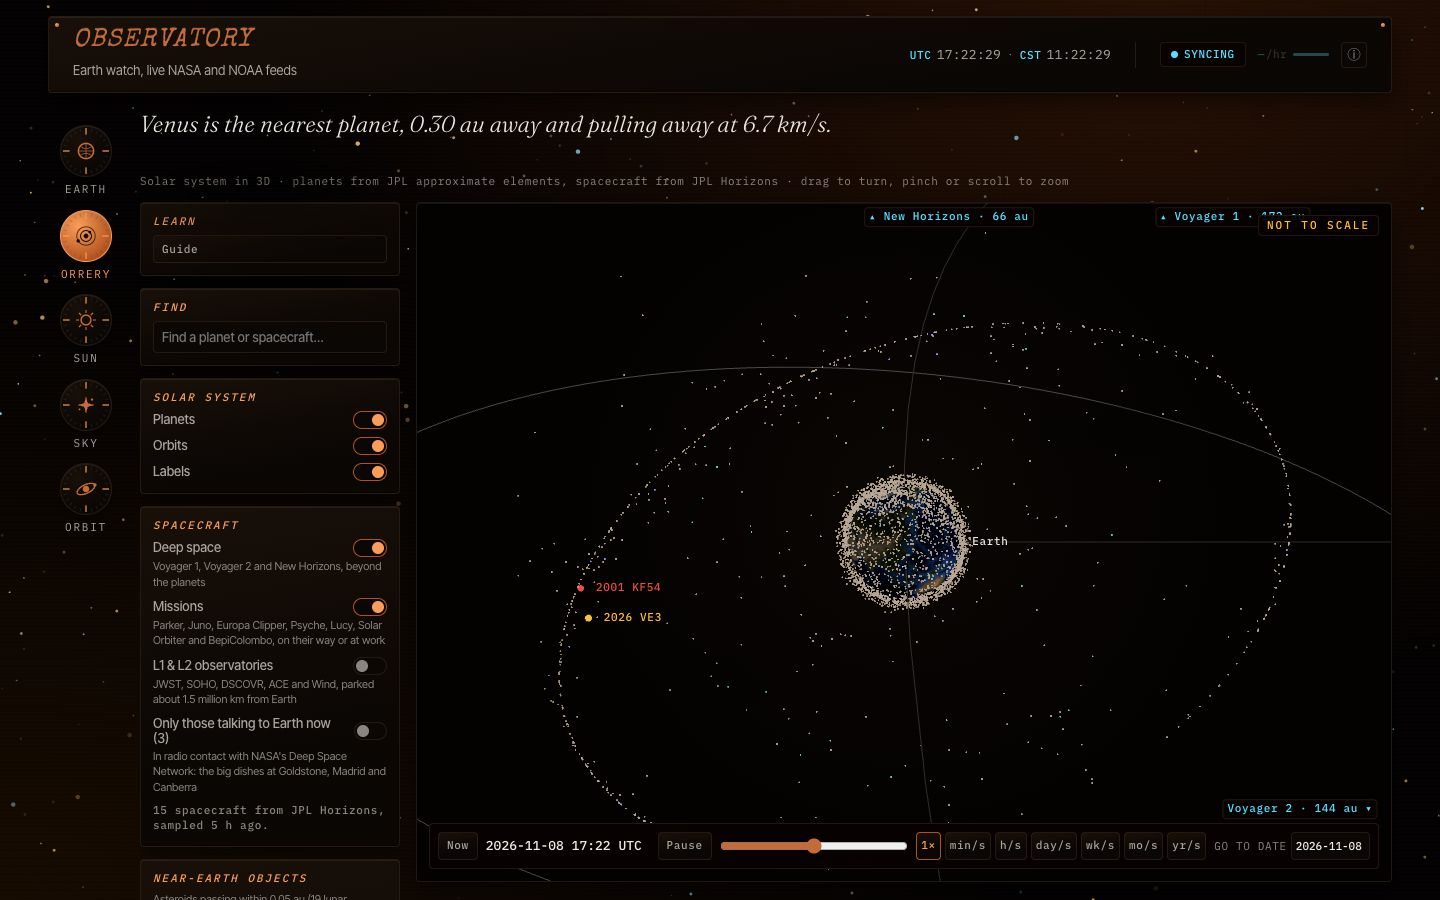
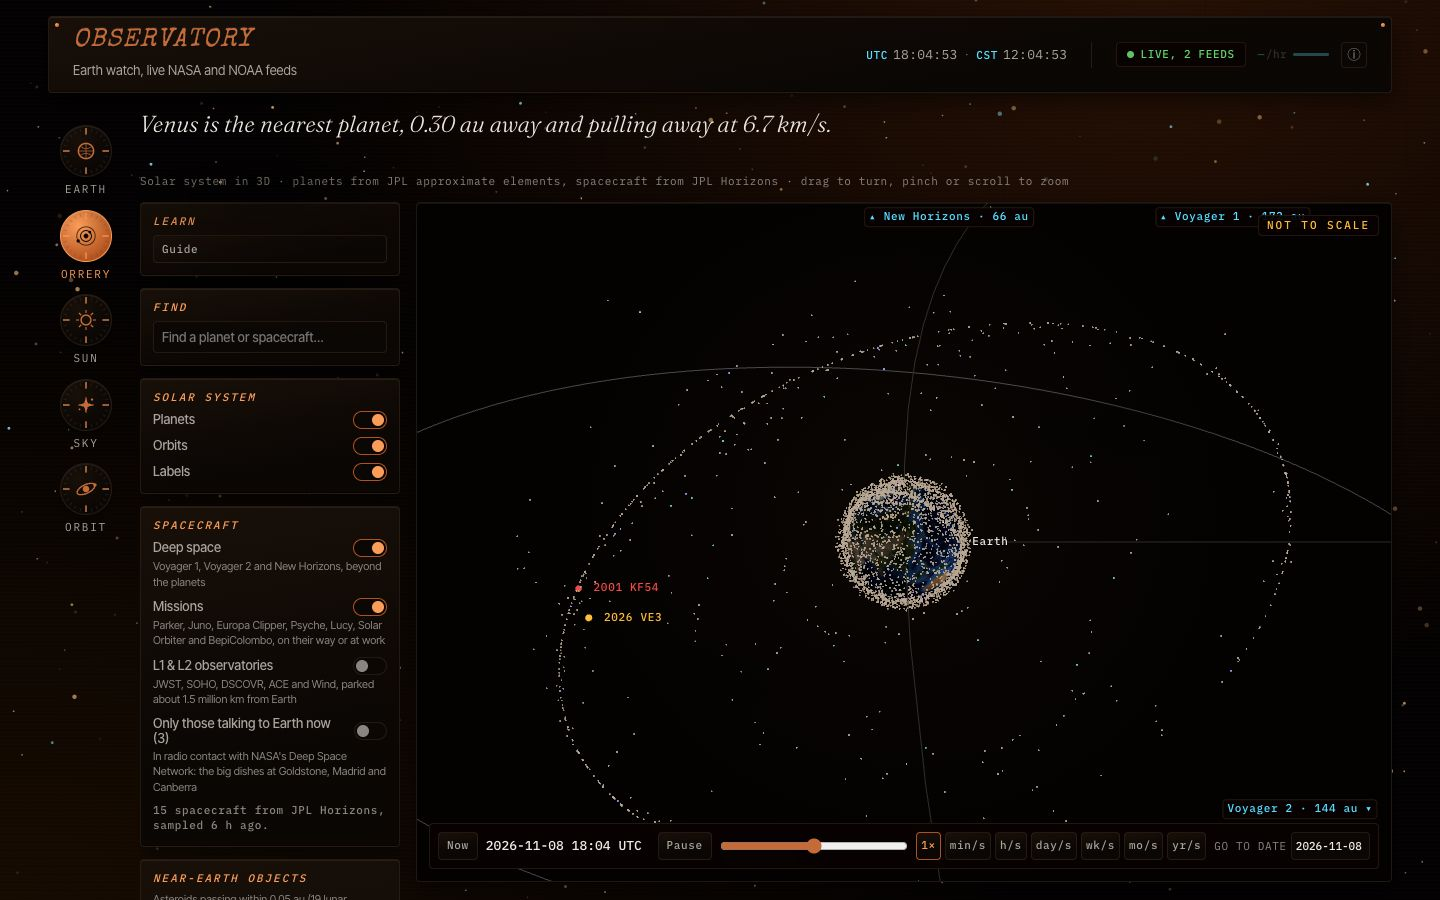
docs(imagery): keep Jónsson's maps as in-scene textures, credited and linked to his page
Björn Jónsson's terms: no permission is needed to use his maps, "please mention their origin",
links are welcome, but "please do not place a copy of the maps on your website" (he updates
them and doesn't want obsolete copies around). The orrery uses his Saturn, ring and Neptune
maps as downscaled textures inside the 3D scene. The owner decided to keep them: they are used,
never offered as maps, and the use is stated openly. If he objects, they come off (ADR 0019).

- The inspector's credit for Saturn and Neptune links to his maps page (creditUrl).
- The README says how they are used and points to his page for the real maps.
- ADR 0019 records the decision, his terms verbatim, and the revisit condition.
- README screenshots retaken now that the header reads LIVE (#178).

Test first: imagery-credit-link.test.tsx.

Closes #180

Claude-Session: https://claude.ai/code/session_01Qq1fEZHErpoCuyKkXfgasg

diff --git a/tests/unit/imagery-credit-link.test.tsx b/tests/unit/imagery-credit-link.test.tsx
@@ -1,0 +1,36 @@
+/**
+ * Björn Jónsson's maps (#180): used as downscaled textures inside the orrery, credited by name
+ * as his terms ask ("please mention their origin"), and linked to his own maps page, which
+ * he welcomes ("You are also welcome to link to the maps from your own website").
+ */
+import { cleanup, render, screen } from '@testing-library/react'
+import { afterEach, describe, expect, it } from 'vitest'
+
+import { ImageryFacts } from '@/components/orrery/ImageryFacts'
+import { BODY_IMAGERY } from '@/lib/orrery/imagery'
+
+const JONSSON_MAPS = 'https://bjj.mmedia.is/data/planetary_maps.html'
+
+afterEach(cleanup)
+
+describe('Jónsson credit (#180)', () => {
+  it('links every body credited to Jónsson to his maps page', () => {
+    const credited = Object.entries(BODY_IMAGERY).filter(([, img]) =>
+      img.credit.includes('Jónsson'),
+    )
+    expect(credited.map(([name]) => name).sort()).toEqual(['Neptune', 'Saturn'])
+    for (const [, img] of credited) expect(img.creditUrl).toBe(JONSSON_MAPS)
+  })
+
+  it('shows the credit as a link in the inspector', () => {
+    render(<ImageryFacts body="Saturn" />)
+    const link = screen.getByRole('link', { name: BODY_IMAGERY.Saturn.credit })
+    expect(link.getAttribute('href')).toBe(JONSSON_MAPS)
+  })
+
+  it('keeps a credit without a page as plain text', () => {
+    render(<ImageryFacts body="Uranus" />)
+    expect(screen.queryByRole('link')).toBeNull()
+    expect(screen.getByText(BODY_IMAGERY.Uranus.credit)).toBeTruthy()
+  })
+})

diff --git a/src/lib/orrery/imagery.ts b/src/lib/orrery/imagery.ts
@@ -25,9 +25,19 @@ export interface BodyImagery {
   readonly note: string
   readonly mission: string
   readonly credit: string
+  /** The credited source's own page, linked from the inspector's credit (#180). */
+  readonly creditUrl?: string
   /** Sidereal rotation period, hours; negative for retrograde (NASA planetary fact sheet). */
   readonly rotationHours?: number
 }
+
+/**
+ * Björn Jónsson's maps page. His terms: no permission is needed to use the maps, "please
+ * mention their origin", links welcome, but "please do not place a copy of the maps on your
+ * website". We use them only as downscaled textures inside the 3D scene, never offered as
+ * maps, and link here for the real thing (ADR 0019, #180).
+ */
+const JONSSON_MAPS = 'https://bjj.mmedia.is/data/planetary_maps.html'
 
 export const BODY_IMAGERY: Readonly<Record<BodyName, BodyImagery>> = {
   Sun: {
@@ -81,6 +91,7 @@ export const BODY_IMAGERY: Readonly<Record<BodyName, BodyImagery>> = {
     note: 'About natural colour. Rings from Voyager profiles coloured by Cassini.',
     mission: 'Cassini and Voyager',
     credit: 'Map and ring profiles created by Björn Jónsson',
+    creditUrl: JONSSON_MAPS,
     rotationHours: 10.656,
   },
   Uranus: {
@@ -96,6 +107,7 @@ export const BODY_IMAGERY: Readonly<Record<BodyName, BodyImagery>> = {
     note: 'About natural colour.',
     mission: 'Voyager 2',
     credit: 'Map created by Björn Jónsson',
+    creditUrl: JONSSON_MAPS,
     rotationHours: 16.11,
   },
 }

diff --git a/src/components/orrery/ImageryFacts.tsx b/src/components/orrery/ImageryFacts.tsx
@@ -39,7 +39,15 @@ export function ImageryFacts({ body, sun }: { body: BodyName; sun?: SunImageStat
       <dt>Mission</dt>
       <dd className={styles.inspectorText ?? ''}>{img.mission}</dd>
       <dt>Credit</dt>
-      <dd className={styles.inspectorText ?? ''}>{img.credit}</dd>
+      <dd className={styles.inspectorText ?? ''}>
+        {img.creditUrl ? (
+          <a href={img.creditUrl} target="_blank" rel="noreferrer">
+            {img.credit}
+          </a>
+        ) : (
+          img.credit
+        )}
+      </dd>
     </dl>
   )
 }

diff --git a/docs/decisions/README.md b/docs/decisions/README.md
@@ -6,23 +6,24 @@ of truth for decisions; `CLAUDE.md` and the reference docs point here. They are 
 personal details. Start a new one from [0000-template.md](0000-template.md), in the same change
 that makes the decision.
 
-| ADR                                                           | Decision                                                                       | Issues         |
-| ------------------------------------------------------------- | ------------------------------------------------------------------------------ | -------------- |
-| [0001](0001-no-ci-no-prs.md)                                  | No CI and no PRs: `pnpm verify` is the gate                                    | #33            |
-| [0002](0002-stay-on-the-cloudflare-free-plan.md)              | Stay on the Cloudflare free plan, and design to its limits                     |                |
-| [0003](0003-kv-first-feeds-for-blocked-upstreams.md)          | Upstreams that block Workers are served KV-first from the refresh job          | #30, #72       |
-| [0004](0004-content-contracts-and-issue-per-source-alerts.md) | Content contracts, and one GitHub issue per source for alerts                  | #21, #71, #120 |
-| [0005](0005-roci-v2-the-instrument.md)                        | The visual direction is ROCI Retrofit v2, "the Instrument"                     | #35, #36       |
-| [0006](0006-two-typescripts-side-by-side.md)                  | Two TypeScripts side by side: 7 compiles, 6 lints                              | #97            |
-| [0007](0007-upgrade-dont-pin.md)                              | Upgrade, don't pin; lazy bundle budgets are tripwires                          | #96, #97, #103 |
-| [0008](0008-the-orrery-is-a-whole-page.md)                    | The orrery is a whole page, not a lens                                         | #91            |
-| [0009](0009-horizons-sampled-in-the-refresh-job.md)           | Ephemerides are sampled in the refresh job; the client only interpolates       | #88, #93       |
-| [0010](0010-on-demand-jpl-through-one-durable-object.md)      | On-demand JPL lookups go through one Durable Object queue                      | #100           |
-| [0011](0011-sgp4-runs-in-javascript-under-the-csp.md)         | Production propagates satellites in JavaScript; the CSP allows no WebAssembly  | #98            |
-| [0012](0012-satellites-live-in-the-earth-frame.md)            | Satellites live in the orrery's Earth frame, from points to haze               | #98            |
-| [0013](0013-space-track-and-discosweb-on-their-terms.md)      | Space-Track and DISCOSweb are read on their own terms, in the refresh job only | #101           |
-| [0014](0014-the-guide-teaches-through-links.md)               | The orrery's guide teaches by doing, through shareable links                   | #159           |
-| [0015](0015-claude-md-holds-rules-docs-hold-the-rest.md)      | CLAUDE.md holds rules and pointers; history and measurements live in docs/     | #170           |
-| [0016](0016-decisions-are-public.md)                          | This repository's ADRs are public                                              | #170           |
-| [0017](0017-load-performance-floor.md)                        | Load performance has reached its floor                                         | #177           |
-| [0018](0018-the-header-judges-the-view-on-screen.md)          | The header's status judges the view on screen, by that view's own feeds        | #178           |
+| ADR                                                           | Decision                                                                        | Issues         |
+| ------------------------------------------------------------- | ------------------------------------------------------------------------------- | -------------- |
+| [0001](0001-no-ci-no-prs.md)                                  | No CI and no PRs: `pnpm verify` is the gate                                     | #33            |
+| [0002](0002-stay-on-the-cloudflare-free-plan.md)              | Stay on the Cloudflare free plan, and design to its limits                      |                |
+| [0003](0003-kv-first-feeds-for-blocked-upstreams.md)          | Upstreams that block Workers are served KV-first from the refresh job           | #30, #72       |
+| [0004](0004-content-contracts-and-issue-per-source-alerts.md) | Content contracts, and one GitHub issue per source for alerts                   | #21, #71, #120 |
+| [0005](0005-roci-v2-the-instrument.md)                        | The visual direction is ROCI Retrofit v2, "the Instrument"                      | #35, #36       |
+| [0006](0006-two-typescripts-side-by-side.md)                  | Two TypeScripts side by side: 7 compiles, 6 lints                               | #97            |
+| [0007](0007-upgrade-dont-pin.md)                              | Upgrade, don't pin; lazy bundle budgets are tripwires                           | #96, #97, #103 |
+| [0008](0008-the-orrery-is-a-whole-page.md)                    | The orrery is a whole page, not a lens                                          | #91            |
+| [0009](0009-horizons-sampled-in-the-refresh-job.md)           | Ephemerides are sampled in the refresh job; the client only interpolates        | #88, #93       |
+| [0010](0010-on-demand-jpl-through-one-durable-object.md)      | On-demand JPL lookups go through one Durable Object queue                       | #100           |
+| [0011](0011-sgp4-runs-in-javascript-under-the-csp.md)         | Production propagates satellites in JavaScript; the CSP allows no WebAssembly   | #98            |
+| [0012](0012-satellites-live-in-the-earth-frame.md)            | Satellites live in the orrery's Earth frame, from points to haze                | #98            |
+| [0013](0013-space-track-and-discosweb-on-their-terms.md)      | Space-Track and DISCOSweb are read on their own terms, in the refresh job only  | #101           |
+| [0014](0014-the-guide-teaches-through-links.md)               | The orrery's guide teaches by doing, through shareable links                    | #159           |
+| [0015](0015-claude-md-holds-rules-docs-hold-the-rest.md)      | CLAUDE.md holds rules and pointers; history and measurements live in docs/      | #170           |
+| [0016](0016-decisions-are-public.md)                          | This repository's ADRs are public                                               | #170           |
+| [0017](0017-load-performance-floor.md)                        | Load performance has reached its floor                                          | #177           |
+| [0018](0018-the-header-judges-the-view-on-screen.md)          | The header's status judges the view on screen, by that view's own feeds         | #178           |
+| [0019](0019-jonsson-maps-as-in-scene-textures.md)             | Björn Jónsson's maps stay, as downscaled in-scene textures, credited and linked | #180           |

diff --git a/docs/decisions/0019-jonsson-maps-as-in-scene-textures.md b/docs/decisions/0019-jonsson-maps-as-in-scene-textures.md
@@ -1,0 +1,44 @@
+# 0019. Björn Jónsson's maps stay, as downscaled textures inside the orrery, credited and linked
+
+Status: Accepted · Date: 2026-11-08
+
+## Context
+
+The orrery draws Saturn, its rings and Neptune with Björn Jónsson's maps (#105), the best global
+colour maps of those bodies: Cassini and Voyager mosaics. They are served from this site as
+downscaled WebP textures (`public/textures/planets/saturn.webp`, `saturn-rings.webp`,
+`neptune.webp`). His terms (https://bjj.mmedia.is/data/planetary_maps.html, read 2026-11-08):
+
+> All the planetary maps available on these pages are publicly available. You do not need a
+> special permission to use them but if you do then please mention their origin in your work,
+> e.g. "created by Björn Jónsson" or something equivalent. You are also welcome to link to the
+> maps from your own website. However, please do not place a copy of the maps on your website.
+> One reason for this is that from time to time I "upgrade" the maps with improved versions and
+> I don't want to have old, obsolete versions of my maps scattered around on the web.
+
+No replacement of comparable honesty exists: a search on 2026-11-08 found no NASA global colour
+map of Saturn or Neptune with clear terms, and the CC BY alternatives (Solar System Scope) are
+stylised, with unstated provenance (#180).
+
+## Decision
+
+The owner decided to keep the maps. They are used, as his terms allow, and never offered as maps:
+they exist on this site only as downscaled textures wrapped on spheres inside the 3D scene, with
+no page, link or download that presents them as maps. Every place they appear credits him by
+name and links to his maps page for the real, current versions: the orrery inspector's credit,
+the README's credits and this record.
+
+## Consequences
+
+- The orrery keeps its best-quality Saturn, rings and Neptune.
+- The texture files are reachable by URL, as every asset a web page draws must be. The README
+  states how they are used so the use is clear to anyone, including him.
+- If he objects, the maps come off the site and a replacement is chosen (a shaded body like Venus
+  and Uranus, or a licensed alternative). Revisit then, or if this site ever offers maps for
+  download.
+
+## Evidence
+
+- #105, #180.
+- `src/lib/orrery/imagery.ts` (`JONSSON_MAPS`, `creditUrl`), `src/components/orrery/ImageryFacts.tsx`,
+  `tests/unit/imagery-credit-link.test.tsx`, `README.md` (Images and type).

diff --git a/docs/reference/orrery.md b/docs/reference/orrery.md
@@ -160,8 +160,11 @@ Real maps on the planets, the live Sun from GOES SUVI.
   The inspector prints all of it (`ImageryFacts.tsx`). Mercury is MESSENGER enhanced colour, Mars
   a colourised Viking mosaic, Jupiter Cassini PIA07782, Earth the globe's own `day-2048.webp`.
   Saturn, its rings and Neptune are Björn Jónsson's maps, credited by name as his terms ask
-  ("please mention their origin"). Venus and Uranus get no map: they are shaded in their palette
-  colours.
+  ("please mention their origin") and linked to his maps page (`creditUrl`). His terms also ask
+  that copies not be placed on other sites; they are used only as downscaled textures inside the
+  scene, never offered as maps ([ADR 0019](../decisions/0019-jonsson-maps-as-in-scene-textures.md),
+  #180). Don't add a download or a map page for them. Venus and Uranus get no map: they are
+  shaded in their palette colours.
 - **Maps load on first need, never with the page.** `BodySkins` gives each planet a lit, mapped
   twin, tilted to its IAU pole and spun at its sidereal period (NASA fact sheet). It takes over
   from the flat dot only once the body is in view and at least `SKIN_MIN_PX` (6 px) in radius,

diff --git a/README.md b/README.md
@@ -175,8 +175,10 @@ used.
 
 ### Images and type
 
-- **Saturn, its rings and Neptune:** maps created by
-  [Björn Jónsson](https://bjj.mmedia.is/data/planetary_maps.html).
+- **Saturn, its rings and Neptune:** maps created by Björn Jónsson. The orrery uses them only as
+  downscaled textures wrapped on the planets inside the 3D scene; this site does not offer them
+  as maps. For the full, current maps, go to
+  [his planetary maps page](https://bjj.mmedia.is/data/planetary_maps.html).
 - **Fonts**, self-hosted: [Fraunces](https://fonts.google.com/specimen/Fraunces),
   [IBM Plex Mono](https://fonts.google.com/specimen/IBM+Plex+Mono) and
   [Inter Tight](https://fonts.google.com/specimen/Inter+Tight) under the SIL Open Font License,
